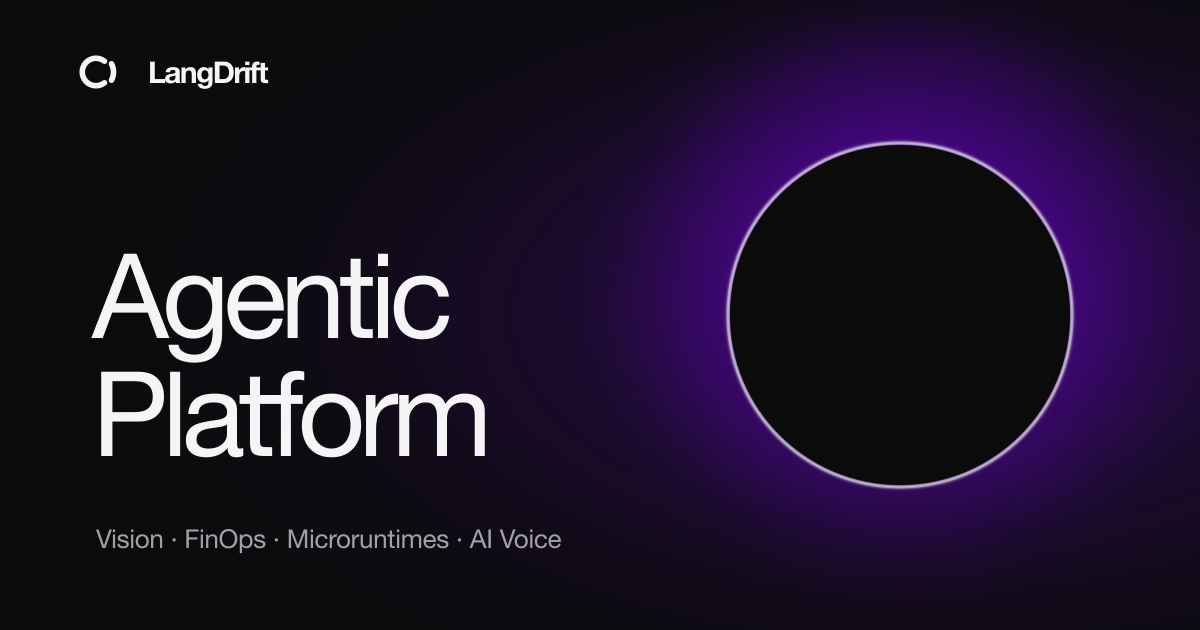
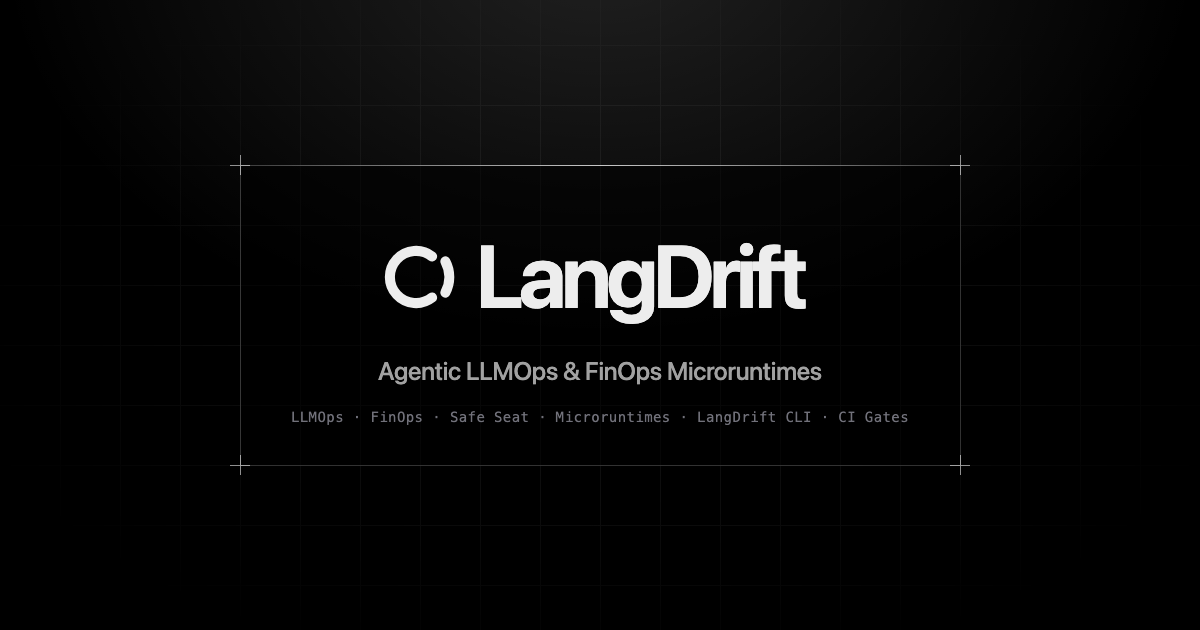
fix(website): redraw social images and align SEO metadata with LLMOps
The Open Graph and Twitter images still carried the pre-pivot Exphere
purple corona and the four Vision-era product names. Redraw both
1200x630 PNGs in the monochrome LangDrift grid-and-crosshair aesthetic
with the drift mark, the LangDrift wordmark, "Agentic LLMOps & FinOps
Microruntimes" and the six current platform items.

Update the social image alt files, the organization GitHub URL and the
localized SEO metadata and conversion copy so home, Safe Seat, pricing
and Book a demo name LLMOps, FinOps and Microruntimes across all five
locales.

Ticket: 0343

diff --git a/.agents/tickets/0343-website-seo-and-social-image-branding.ticket.md b/.agents/tickets/0343-website-seo-and-social-image-branding.ticket.md
@@ -1,0 +1,19 @@
+# 0343: replace the website's social images and SEO metadata with the monochrome LangDrift branding
+
+**Spec:** None. The owner's instruction of 2026-11-07: replace the website's legacy Exphere-colored social images (which still carried Vision and AI Voice) and update the SEO metadata to reflect the current LangDrift platform (`LLMOps`, `FinOps`, `Safe Seat`, `Microruntimes`, `LangDrift CLI`, `CI Gates`).
+
+**What to build:** `apps/website/src/app/[locale]/opengraph-image.png` and `apps/website/src/app/[locale]/twitter-image.png` are redrawn in the monochrome LangDrift grid-and-crosshair aesthetic at `1200 × 630` with the drift mark, the `LangDrift` wordmark, `"Agentic LLMOps & FinOps Microruntimes"` and the six current platform items (`LLMOps · FinOps · Safe Seat · Microruntimes · LangDrift CLI · CI Gates`), with no Exphere purple corona and no Vision or AI Voice copy. `opengraph-image.alt.txt` and `twitter-image.alt.txt` match the new headline, `organization.json` points to `https://github.com/jonatassales/lang-drift`, and `pages.json` (plus the corresponding `conversion.json` and `book-a-demo.json` strings) reflects `LLMOps`, `FinOps` and `Microruntimes` across all five locales (`en`, `pt-BR`, `zh-Hant`, `ja`, `vi`).
+
+**Blocked by:** None.
+
+**Status:** completed.
+
+- [x] `apps/website/src/app/[locale]/opengraph-image.png` and `twitter-image.png` are `1200 × 630` PNGs in the monochrome LangDrift branding with no Exphere purple corona and no Vision or AI Voice references.
+- [x] `apps/website/src/app/[locale]/opengraph-image.alt.txt` and `twitter-image.alt.txt` read `LangDrift — Agentic LLMOps & FinOps Microruntimes`.
+- [x] `apps/website/src/app/metadata/organization.json` names `https://github.com/jonatassales/lang-drift`.
+- [x] `apps/website/src/app/metadata/pages.json`, `apps/website/src/app/template/i18n/messages/conversion.json` and `apps/website/src/app/template/i18n/messages/book-a-demo.json` reflect the current platform (`LLMOps`, `FinOps` and `Microruntimes`, with Safe Seat under `LangDrift LLMOps`) in all five locales.
+- [x] `pnpm turbo run check`, `pnpm turbo run typecheck --filter=website`, `pnpm turbo run test --filter=website`, `packages/drift/drift.sh check localization` and `packages/drift/drift.sh quality dead-code` pass.
+
+## Dev part
+
+**Override:** the owner directed the agent to replace the social share images and update the SEO metadata strings and open a pull request; redrawing static social PNGs and updating metadata/i18n JSON strings holds no core-domain logic, hard part or new stack (policy, Categories). 2026-11-07.
